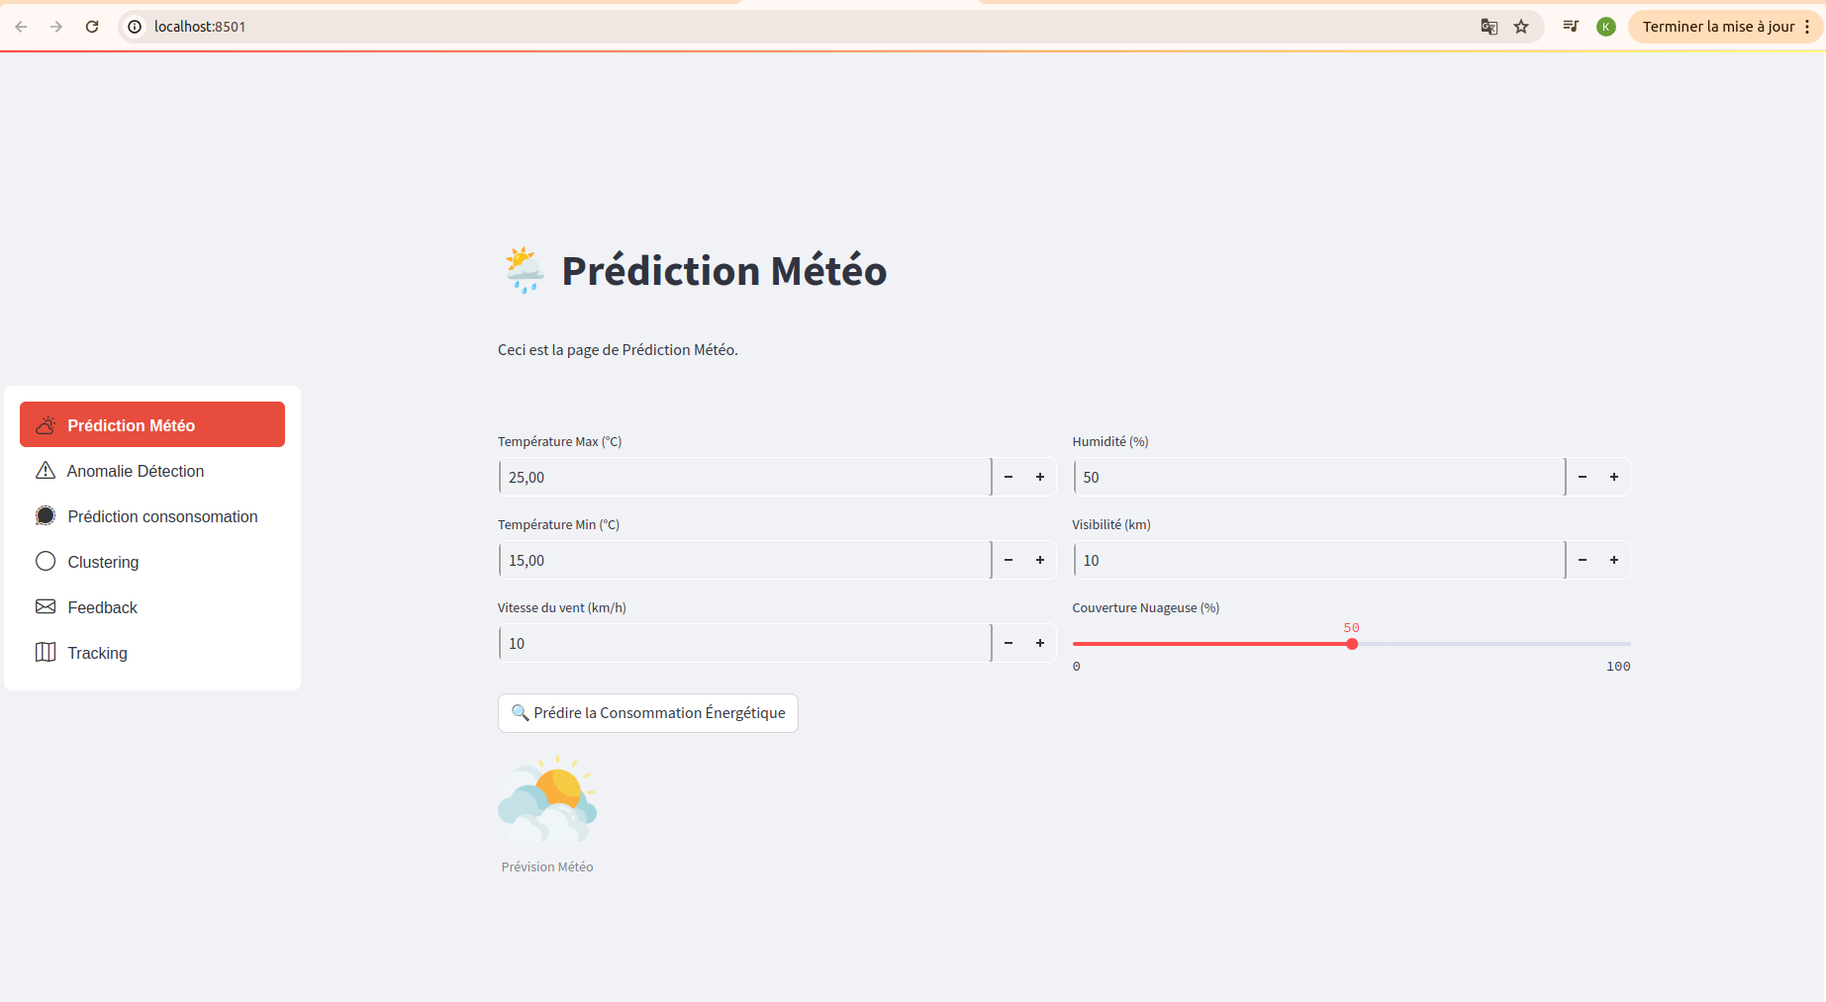
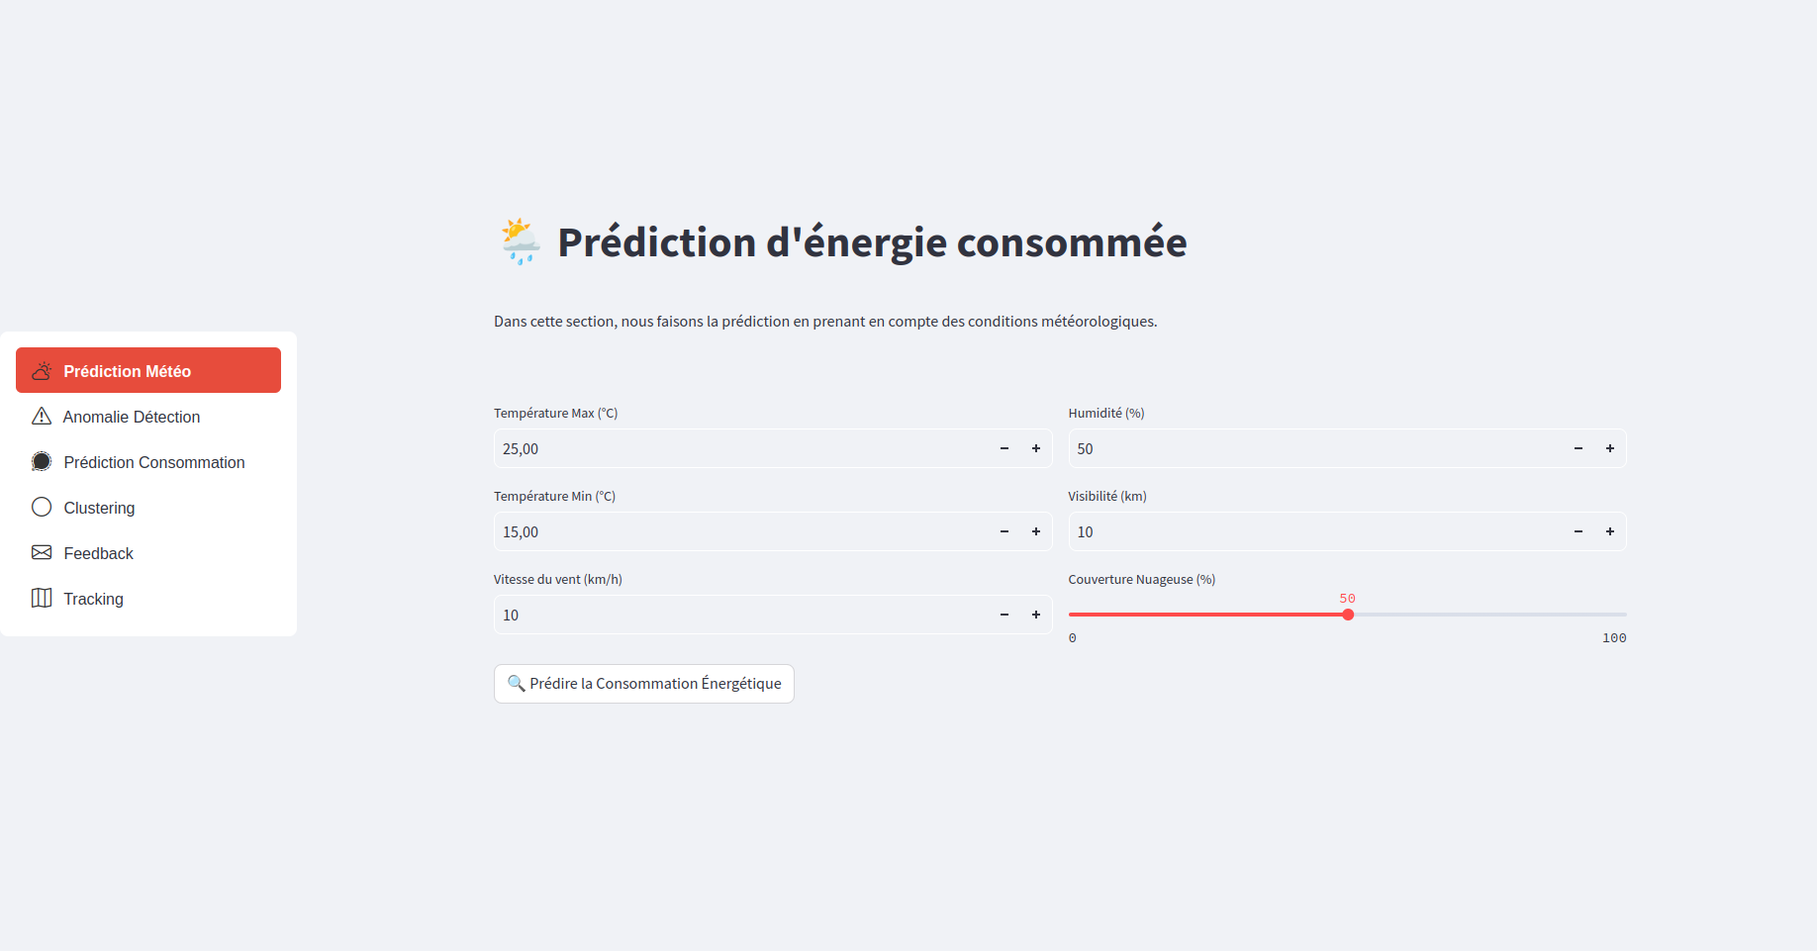
Last Commit

diff --git a/README.md b/README.md
@@ -76,7 +76,7 @@
 17. [🤝 Notre Équipe](#equipe)
 
 ## 1. 🔍 Contexte du Projet<a name="contexte-du-projet"></a>
-La détection précoce des anomalies énergétiques est essentielle pour la gestion proactive de l'énergie, en particulier pendant les périodes de forte demande (hiver, été) ou durant des événements comme les mouvements sociaux. Ce projet vise à identifier ces anomalies en se basant sur des données variées (météorologiques, sociales, etc.) et à fournir une interface utilisateur permettant la visualisation et l'analyse des résultats. La solution est structurée en plusieurs sous-projets interconnectés, chacun avec des objectifs spécifiques.
+La détection précoce des anomalies énergétiques est essentielle pour la gestion proactive de l'énergie, en particulier pendant les périodes de forte demande (hiver, été) ou durant des événements comme les mouvements sociaux. Ce projet vise à identifier ces anomalies en se basant sur des données variées (météorologiques, sociales, etc.) et à fournir une interface utilisateur permettant la visualisation et l'analyse des résultats. La solution est structurée en 4 sous-projets interconnectés, chacun avec des objectifs spécifiques et incluant un ou plusieurs modules.
 
 
 ## 2. 💡 Pourquoi ce projet ? <a name="pourquoi-ce-projet"></a>
@@ -120,7 +120,7 @@ Nous avons mis en place une intégration continue (CI) via **GitHub Actions**, q
 
 Le pipeline de CI, configuré dans le répertoire `.github/workflows`, est accessible via [ce lien](https://github.com/keagnon/DetectionAnomalie/actions/runs/10871125104/job/30164567486).
 
-Voici un aperçu de notre fichier `Makefile`, qui automatise les tests locaux et le linting dans notre pipeline CI locale :
+Nous utilisons un **🛠 Makefile** pour automatiser les processus de build, de tests et faciliter la gestion de la CI en local. Voici un aperçu de notre fichier `Makefile` :
 ![CI local](images/Makefile.png)
 
 En outre, chaque module du projet est containerisé avec **Docker** pour assurer la portabilité et la cohérence des environnements. Les fichiers `.env` permettent une configuration flexible des variables d'environnement.
@@ -188,7 +188,7 @@ Cette approche `"green AI"` nous a permis de concilier performance algorithmique
 └── requirements.txt          # Liste des dépendances générales du projet
 ```
 
-Nous utilisons un **🛠 Makefile** pour automatiser les processus de build, de tests et faciliter la gestion de la CI en local. De plus, nos variables suivent le style `snake_case` et nous avons ajouté des `docstrings` dans toutes les parties du projet.
+**N.B** : Nos variables suivent le style `snake_case` et nous avons ajouté des `docstrings` dans toutes les parties du projet.
 
 ## 9. 🔄 Pipelines de Collecte de Données avec Kedro <a name="pipelines-de-collecte-de-données-avec-kedro"></a>
 Cette partie du projet est un sous-projet dédié à l'ingestion et à la préparation des données, inclus dans notre projet global de détection d'anomalies. Deux pipelines Kedro ont été mis en place pour gérer ces données et les rendre disponibles pour l'analyse et la visualisation :
@@ -197,19 +197,19 @@ Cette partie du projet est un sous-projet dédié à l'ingestion et à la prépa
 
 2. **Pipeline de Fusion des Données (data fusion)** : Ce pipeline charge les données depuis MongoDB, les fusionne pour créer un ensemble de données cohérent, puis les stocke dans Elasticsearch. Le stockage dans Elasticsearch facilite l'indexation et la visualisation des données.
 
-C’est grâce à la visualisation des données brutes dans Kibana que nous avons pu extraire des indicateurs clés de performance (KPI). Cette étape de visualisation a été cruciale pour comprendre les tendances et les anomalies présentes dans les données, et a ainsi permis de définir et de suivre des KPI pertinents.
+Pour accéder à ce sous projet et àvoir plus de détails, consultez le [Accéder au sous projet data-collection-kedro](https://github.com/keagnon/DetectionAnomalie/blob/main/data-collection-kedro/README.md).
 
-Ce processus a non seulement rendu possible l'extraction des KPI directement à partir des données brutes, mais a également fourni une vue globale et détaillée des informations nécessaires pour l'évaluation des performances et le suivi des anomalies.
 
 ![visualisation donnee brute](images/data_viz_kibana/dasboard_donnee_brute.png)
-Pour accéder à ce sous projet et àvoir plus de détails, consultez le [Accéder au sous projet data-collection-kedro](https://github.com/keagnon/DetectionAnomalie/blob/main/data-collection-kedro/README.md).
+
+C’est grâce à la visualisation des données brutes dans Kibana que nous avons pu extraire des indicateurs clés de performance (KPI). Cette étape de visualisation a été cruciale pour comprendre les tendances et les anomalies présentes dans les données, et a ainsi permis de définir et de suivre des KPI pertinents.
 
 
 ## 10. 💻 Traitement des Données et Utilisation de Google Colab <a name="traitement-des-données-et-utilisation-de-google-colab"></a>
 Certaines données volumineuses ont été traitées avec **Google Colab**, notamment pour les membres de l'équipe ayant des limitations matérielles. Voici une capture d'écran de nos notebooks sur Google Colab ainsi que notre bucket GCP pour le stockage des données et artefacts.
 
-![Capture du Bucket GCP](images/bucket.png)
 ![Capture google colab GCP](images/google_colab.png)
+![Capture du Bucket GCP](images/bucket.png)
 
 ## 11. 🤖 Modèles de Machine Learning <a name="modèles-de-machine-learning"></a>
 Grâce à nos pipelines de collecte, stockage et fusion des données, les données ont été divisées en deux groupes :
@@ -217,20 +217,24 @@ Grâce à nos pipelines de collecte, stockage et fusion des données, les donné
 2. **Consommation journalière et mouvements sociaux** (avec une colonne "mouvement social" indiquant les jours avec des événements).
 
 Ces deux groupes de données ont conduit à deux sous-projets distincts :
-- [Accéder au sous-projet sur la consommation régionale et les données météo](https://github.com/keagnon/DetectionAnomalie/blob/main/ml_models/meteo_consommation/meteo/README.md).
-- [Accéder au sous-projet sur la consommation et les mouvements sociaux](https://github.com/keagnon/DetectionAnomalie/blob/main/ml_models/mouvements_consommation/Readme.md).
+- [Accéder au sous-projet développement modèles ML pour les données sur la consommation régionale et les données météo](https://github.com/keagnon/DetectionAnomalie/blob/main/ml_models/meteo_consommation/meteo/README.md).
+- [Accéder au sous-projet développement modèles ML pour les données sur la consommation régionale et les mouvements sociaux](https://github.com/keagnon/DetectionAnomalie/blob/main/ml_models/mouvements_consommation/Readme.md).
 
-Ces sous-projets, ainsi que notre interface Streamlit, utilisent **MLflow** pour le suivi et la mise en production des modèles. Un serveur **MLFlow** a été déployé sur une VM GCP pour permettre à l'équipe de suivre les performances des modèles.
+Ces sous-projets, ainsi que notre interface Streamlit, utilisent **MLflow** pour le suivi et la mise en production des modèles.
+**N.B** : Un serveur **MLFlow** a été déployé sur une VM GCP pour permettre à l'équipe de suivre les performances des modèles.
 
 ## 12. 🖥 Interface Utilisateur <a name="interface-utilisateur-avec-streamlit"></a>
-L'interface utilisateur finale a été développée avec **Streamlit**. Elle permet :
-- Le téléchargement de datasets.
-- La visualisation des résultats des modèles de machine learning.
-- La collecte de feedbacks utilisateurs.
+L'interface utilisateur finale a été développée avec **Streamlit** et du **CSS**. Elle permet :
+- Le téléchargement de datasets ;
+- L'interaction avec les modèles de machine learning développés ;
+- La collecte de feedbacks utilisateurs ;
+- L'accès à notre serveur **Mlflow**.
 
 ![First_page_dashboard_ui](images/dashboard/interface_utilisateur.png)
 
-Cette interface est un sous projet de notre projet de détection d'anomalie. Elle est déployée localement. Pour accéder à ce sous projet et avoir plus de détails,cliquer sur [Sous projet Dashboard Streamlit](https://github.com/keagnon/DetectionAnomalie/blob/main/dashboard_ui/Readme.md).
+Sur l'interface utilisateur que nous avons développée, quatre onglets sont disponibles, chacun correspondant à un modèle de machine learning différent. Ces modèles communiquent avec **MLflow** pour effectuer les prédictions en temps réel. Chaque onglet permet d'interagir avec un modèle spécifique, dont **IsolationForest** pour la détection d'anomalies, **CatBoost**, **RandomForest**, et **DBSCAN**.
+
+Cette interface est un sous projet de notre projet de détection d'anomalie. Elle est déployée localement. Pour accéder à ce sous projet et avoir plus de détails, cliquer sur [Sous projet Dashboard Streamlit CSS](https://github.com/keagnon/DetectionAnomalie/blob/main/dashboard_ui/Readme.md).
 
 
 ## 📈 Monitoring des Logs et Performance <a name="monitoring-des-logs"></a>
@@ -249,7 +253,15 @@ Voici une capture d'écran de l'interface d'**Elasticsearch** montrant les logs 
 Voici une capture d'écran du **tableau de bord Kibana** avec les différentes métriques suivies :
 ![Kibana Dashboard](images/monitoring/dashboard_logs.png)
 
-Pour plus de détails,cliquer sur [Sous projet Dashboard Streamlit](https://github.com/keagnon/DetectionAnomalie/blob/main/dashboard_ui/Readme.md).
+Le tableau de bord ci-dessus montre clairement que nous avons quatre modèles de machine learning : **IsolationForest** pour la détection d'anomalies, **CatBoost**, **RandomForest**, et **DBSCAN**. Chacun de ces modèles est suivi en temps réel avec des indicateurs clés tels que le temps de réponse, l'utilisation du CPU et de la mémoire. Par exemple, **IsolationForest** est le plus utilisé avec près de 44 % des exécutions, suivi par **CatBoost** (34,84 %), **RandomForest** (12,18 %) et **DBSCAN** (9,01 %).
+
+Le graphique sur le nombre d'exécutions réussies et échouées montre que **IsolationForest** est non seulement le plus utilisé, mais aussi celui avec le plus d'exécutions complètes, tandis que les autres modèles comme **DBSCAN** ont moins d'exécutions globales. Cela donne un aperçu des performances de chaque modèle et permet de suivre la fiabilité des prédictions.
+
+En complément, l'historique des erreurs recense les problèmes rencontrés par les différents modèles. On peut y voir, par exemple, des erreurs `NameError` pour **IsolationForest** et **CatBoost**, facilitant ainsi l'identification des dysfonctionnements et leur résolution rapide pour améliorer les performances des modèles.
+
+Ce tableau de bord centralise toutes les informations nécessaires pour surveiller les exécutions, identifier les erreurs et optimiser les ressources.
+
+Pour plus de détails, cliquer sur [Monitoring et logs unifiés](https://github.com/keagnon/DetectionAnomalie/tree/main/dashboard_ui#monitoring-et-logs-unifies)
 
 ## 14. 📊 Documentation <a name="documentation"></a>
 Nous avons documenté plusieurs étapes critiques du projet :
@@ -282,8 +294,6 @@ Malgré les succès obtenus, plusieurs défis ont été rencontrés au cours du 
 - **Disponibilité et Qualité des Données** : La collecte de données provenant de sources variées (PDF, captures d'écran, fichiers XML) a créé des difficultés, notamment lors de la fusion des ensembles de données. Certaines périodes manquaient de données, et certaines dates ne correspondaient pas, compliquant la création d'un dataset cohérent.
 
 - **Contraintes Budgétaires** : Le manque de crédits sur GCP a limité nos expérimentations, obligeant certaines parties du projet à être déployées sur des infrastructures locales ("on-premise"), ce qui a restreint les capacités et l'échelle des tests.
-
-- **Données sur l’Empreinte Carbone** : Nous avons envisagé d'incorporer des données sur l'empreinte carbone par région pour ajouter une dimension "green AI" au projet, où l’optimisation de la consommation énergétique des algorithmes serait un objectif. Cependant, ces données se sont avérées difficiles à trouver. Chaque région ou secteur pourrait avoir un facteur d'émission différent, selon la source d’énergie utilisée. Cela aurait permis de prédire la demande énergétique tout en tenant compte des mouvements sociaux et de fournir des recommandations pour minimiser l’impact carbone en ajustant les sources d’énergie (comme passer du charbon aux énergies renouvelables). Malheureusement, ces données étaient insuffisantes pour mener à bien cette analyse.
 
 
 ## 17. 🚀 Prochaines Étapes : Phase 2 - Forecasting <a name="prochaine_etapes"></a>

diff --git a/data-collection-kedro/README.md b/data-collection-kedro/README.md
@@ -40,16 +40,16 @@
 
 
 ## **Table des matières** 📚
-1. [Vue d'ensemble du projet](#vue-densemble-du-projet)
-2. [Architecture du projet](#architecture-du-projet)
-3. [Installation et configuration](#installation-et-configuration)
-4. [Structure du projet](#structure-du-projet)
-5. [Empreinte Carbone](#empreinte_carbone)
-6. [Exécution du projet](#exécution-du-projet)
-7. [Description des pipelines](#description-des-pipelines)
-8. [Fichiers de configuration](#fichiers-de-configuration)
-9. [Tests du projet](#tests-du-projet)
-10. [Exemples d'images](#exemples-dimages)
+1. [🌍 Vue d'ensemble du projet](#vue-densemble-du-projet)
+2. [🏗 Architecture du projet](#architecture-du-projet)
+3. [⚙ Installation et configuration](#installation-et-configuration)
+4. [🗂 Structure du projet](#structure-du-projet)
+5. [🌍 Empreinte Carbone](#empreinte_carbone)
+6. [🚀 Exécution du projet](#exécution-du-projet)
+7. [🔄 Description des pipelines](#description-des-pipelines)
+8. [🛠 Fichiers de configuration](#fichiers-de-configuration)
+9. [🧪 Tests du projet](#tests-du-projet)
+10. [🖼 Exemples d'images](#exemples-dimages)
 
 
 ## **Vue d'ensemble du projet** 🌍 <a name="vue-densemble-du-projet"></a>
@@ -61,7 +61,7 @@ Le projet se concentre sur l'intégration de données provenant de diverses sour
 
 ## **Architecture du projet** 🏗 <a name="architecture-du-projet"></a>
 
-Le projet suit une architecture modulaire basée sur Kedro, où chaque tâche de traitement de données est encapsulée dans des pipelines distincts pour favoriser la flexibilité et la maintenance.
+Ce sous-projet suit une architecture modulaire basée sur Kedro, où chaque tâche de traitement de données est encapsulée dans des pipelines distincts pour favoriser la flexibilité et la maintenance.
 
 
 ### **Vue d'ensemble des pipelines :**
@@ -180,7 +180,7 @@ data-collection-kedro/
 
 ## **Empreinte Carbone** 🌍  <a name="empreinte_carbone"></a>
 
-Pour ce sous-projet de collecte de données avec Kedro, j'ai utilisé la bibliothèque **CodeCarbon** pour suivre l'empreinte carbone des pipelines, comme **data_fusion** et **etl_pipeline**. Les résultats sont stockés dans le dossier **logs**, offrant une vue détaillée des émissions de CO2eq générées par chaque traitement.
+Pour ce projet de collecte de données avec Kedro, nous avons utilisé la bibliothèque **CodeCarbon** pour suivre l'empreinte carbone des pipelines, comme **data_fusion** et **etl_pipeline**. Les résultats sont stockés dans le dossier **logs**, offrant une vue détaillée des émissions de CO2eq générées par chaque traitement.
 
 ### Résultats de l'Empreinte Carbone :
 
@@ -246,6 +246,22 @@ Les données brutes stockées dans Elasticsearch sont visualisées dans un table
 
 ![Capture du Dashboard Kibana](images/dashboard_kibana/donnee_brute_kibana.png)
 
+Les trois premiers graphiques montrent comment la consommation d'énergie varie en fonction des régions et des saisons, influencée par les conditions météorologiques, tandis que les deux derniers mettent en lumière l'impact des mouvements sociaux sur la baisse de la consommation énergétique.
+
+### 1. **Consommation énergétique par région (2018-2024)** (Graphique en haut à gauche)
+   Ce graphique représente l'évolution de la **consommation énergétique cumulée par région** sur la période 2018-2024. Les pics de consommation semblent être saisonniers, avec des hausses notables en hiver, ce qui peut indiquer une corrélation avec les basses températures et une demande accrue de chauffage. On observe également une légère baisse vers 2021, ce qui pourrait coïncider avec une réduction d'activité économique, peut-être liée aux restrictions sanitaires.
+
+### 2. **Répartition de la consommation énergétique par région** (Diagramme circulaire au centre)
+   Ce diagramme montre la part de la **consommation énergétique par région**. La **région Île-de-France** domine avec environ **30,88 %** de la consommation totale, suivie de **Auvergne-Rhône-Alpes** (18,47 %) et des **Hauts-de-France** (17,4 %). Cela reflète les différences régionales en termes de densité de population et d'activité économique.
+
+### 3. **Évolution de la consommation énergétique et des températures minimales** (Graphique à droite)
+   Ce tableau liste les **dates et les températures minimales** par opérateur avec les moyennes de consommation journalière. Il permet de comparer l'impact des variations météorologiques (températures basses) sur la consommation d'énergie, mais les colonnes de température semblent vides ici, ce qui pourrait indiquer des données manquantes ou non disponibles à cette étape.
+
+### 4. **Graphique comparatif entre les jours avec et sans mouvement social** (Graphique en bas à gauche)
+   Ce graphique illustre l'impact des **mouvements sociaux** sur la consommation énergétique. On observe que les jours avec des mouvements sociaux (barres bleues) entraînent une baisse notable de la consommation d'énergie dans plusieurs régions. Cela suggère une perturbation des activités économiques, probablement due à des grèves ou des manifestations.
+
+### 5. **Série temporelle des consommations journalières et horaires** (Graphique en bas à droite)
+   Ce graphique montre une **série temporelle** comparant les jours avec mouvements sociaux (en bleu foncé) et sans mouvements sociaux (en vert). La tendance générale indique que la consommation énergétique est plus faible pendant les périodes de mouvements sociaux, avec des pics réguliers sans ces mouvements. Cela confirme l'impact des perturbations sociales sur la consommation énergétique.
 
 ## **Fichiers de configuration** 🛠 <a name="fichiers-de-configuration"></a>
 

diff --git a/ml_models/mouvements_consommation/Readme.md b/ml_models/mouvements_consommation/Readme.md
@@ -136,7 +136,7 @@ mouvements_consommation/
 
 ## 🌍 Calcul empreinte carbone <a name="empreinte_carbone"></a>
 
-Dans le cadre de ce sous-projet dédié à la **détection d'anomalies** dans la consommation énergétique, nous avons intégré le suivi de l'empreinte carbone à travers **CodeCarbon**. Ce suivi a permis de mesurer l'impact environnemental des différents algorithmes utilisés, tels que **Isolation Forest** pour la détection d'anomalies, et les méthodes de **clustering** comme **K-means** et **DBSCAN**. De plus, des modèles de régression tels que **Ridge Regression** et **Random Forest**, qui prennent en compte des facteurs comme les **mouvements sociaux**, ont été évalués en termes d'émissions de CO2eq lors de leur exécution.
+Dans ce projet inclut dans notre solution globale de **Détection d'Anomalies**, nous avons intégré le suivi de l'empreinte carbone à travers **CodeCarbon**. Ce suivi a permis de mesurer l'impact environnemental des différents algorithmes utilisés, tels que **Isolation Forest** pour la détection d'anomalies, et les méthodes de **clustering** comme **K-means** et **DBSCAN**. De plus, des modèles de régression tels que **Ridge Regression** et **Random Forest**, qui prennent en compte des facteurs comme les **mouvements sociaux**, ont été évalués en termes d'émissions de CO2eq lors de leur exécution.
 
 Les résultats de ces suivis sont stockés dans des logs pour analyser et optimiser l'efficacité énergétique de chaque composant. [voir section capture d'écran](#captures-d’écran)
 

diff --git a/ml_models/meteo_consommation/meteo/README.md b/ml_models/meteo_consommation/meteo/README.md
@@ -26,7 +26,7 @@
 
 ## 📖 Présentation du sous-projet<a name="présentation-du-projet"></a>
 
-Ce sous-projet fait partie de la solution globale de **Détection d'Anomalies** dans la consommation d'énergie. Son objectif est de prédire et d'identifier des anomalies dans les comportements de consommation énergétique, en prenant en compte les données météorologiques.
+Ce projet fait partie de la solution globale de **Détection d'Anomalies** dans la consommation d'énergie. Son objectif est de prédire et d'identifier des anomalies dans les comportements de consommation énergétique, en prenant en compte les données météorologiques.
 
 Nous utilisons des algorithmes intégrés dans des **pipelines Kedro** pour le traitement des données et l'entraînement des modèles. De plus, une interface interactive, développée avec **Streamlit**, permet de visualiser en temps réel les résultats de ces modèles.
 
@@ -156,7 +156,7 @@ L'application **Streamlit** permet de visualiser les résultats des modèles de 
 
 ## 📊 Modèles et Algorithmes Utilisés<a name="modèles-et-algorithmes-utilisés"></a>
 
-**CatBoost** et **Random Forest** : Employé pour la prédiction consommation d'énergie.
+**CatBoost et Random Forest** sont utilisés pour la prédiction de la consommation d'énergie.
 
 ## 📈 Intégration avec MLFlow<a name="intégration-avec-mlflow"></a>
 

diff --git a/dashboard_ui/Readme.md b/dashboard_ui/Readme.md
@@ -31,7 +31,7 @@
 
 ## 📑 Introduction
 
-Ce projet est le **tableau de bord final** développé avec **Streamlit** qui englobe toutes les fonctionnalités des différents modèles développés dans le cadre de notre projet de **détection d'anomalies**. Ce tableau de bord permet d'interagir avec plusieurs modèles de machine learning et d'observer leurs performances sur différentes tâches.
+Ce sous-projet est le **tableau de bord final** développé avec **Streamlit** et du **CSS** qui englobe toutes les fonctionnalités des différents modèles développés dans le cadre de notre projet de **détection d'anomalies**. Ce tableau de bord permet d'interagir avec plusieurs modèles de machine learning et d'observer leurs performances sur différentes tâches.
 
 Cette partie de notre projet de **détection d'anomalies** se concentre sur les aspects suivants :
 
